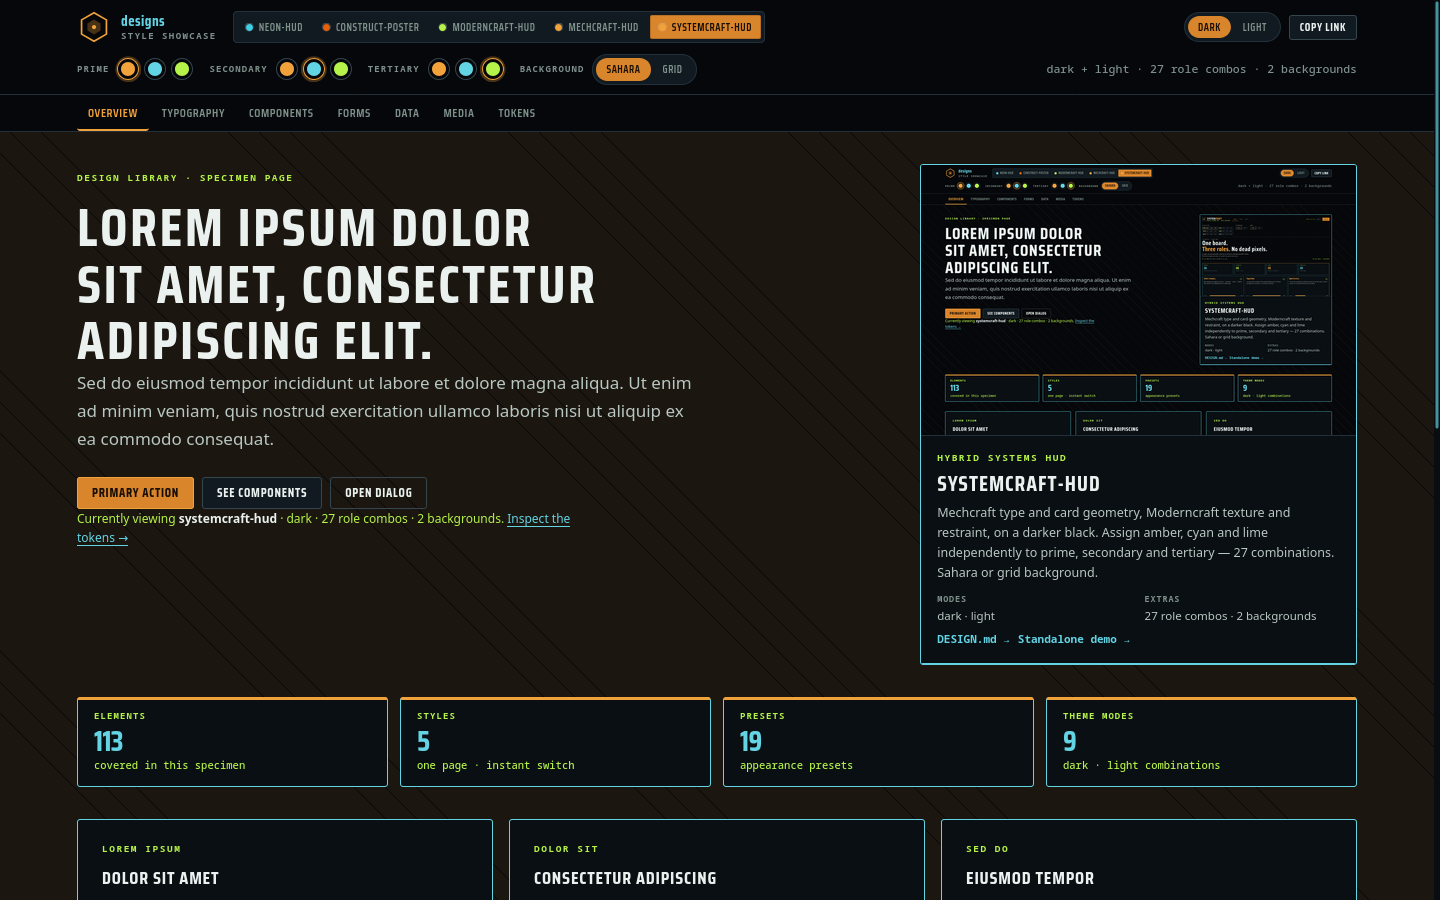
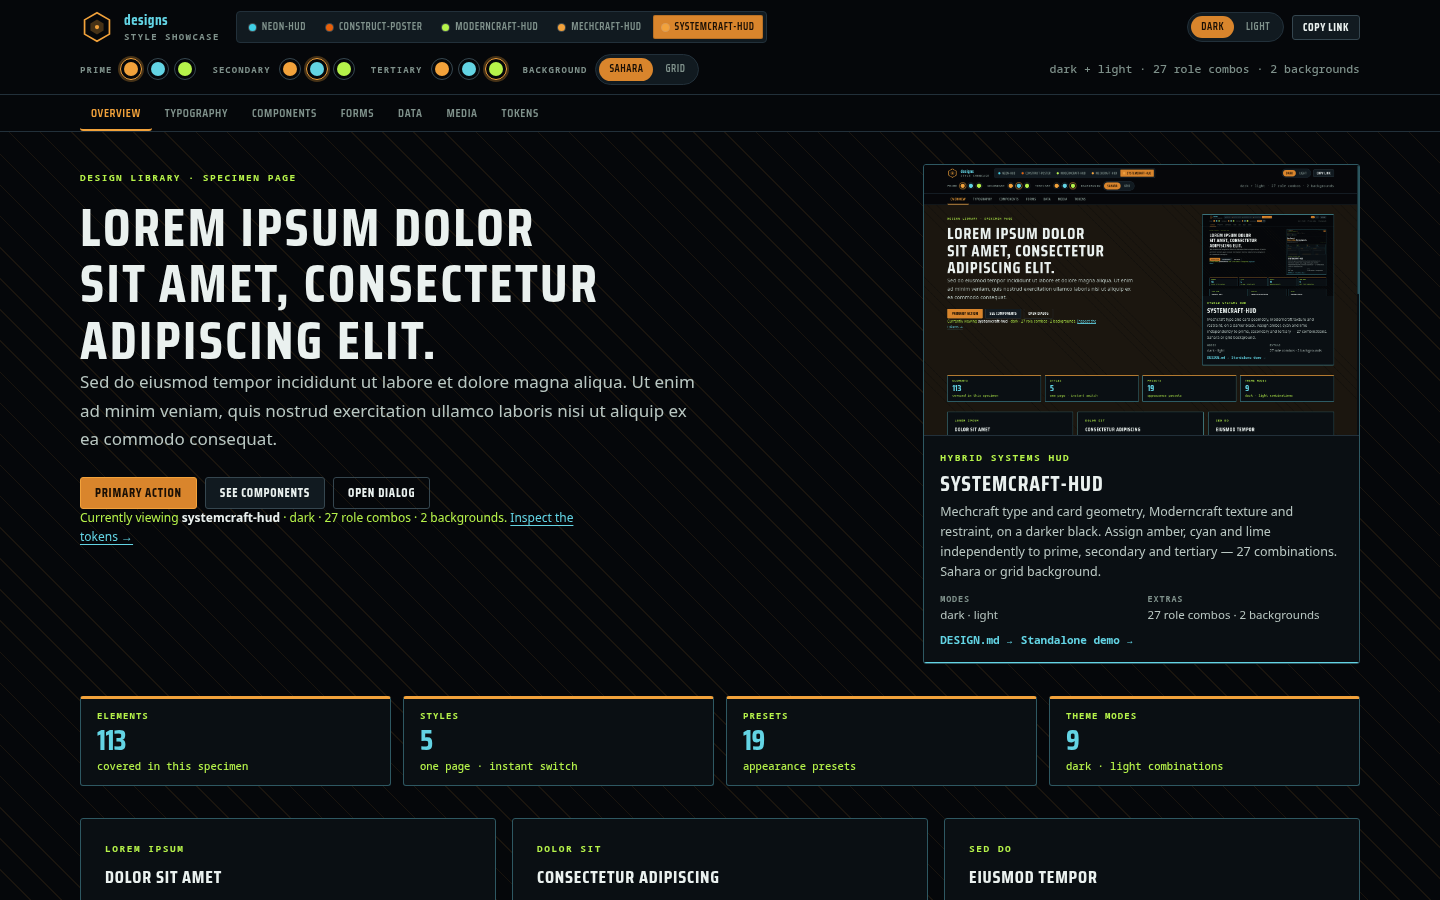
style(systemcraft): tint resting card borders
Match Moderncraft's quieter border weight with 30% secondary + card-line, while keeping the full secondary bottom rail and existing edge geometry. Refresh the canonical example preview.

diff --git a/styles/systemcraft-hud/theme.css b/styles/systemcraft-hud/theme.css
@@ -125,7 +125,7 @@
   --chrome-2: var(--acc-soft);
   --chrome-line: var(--acc-line);
   --chrome-glow: color-mix(in srgb, var(--acc) 22%, transparent);
-  --card-border: var(--sec);
+  --card-border: color-mix(in srgb, var(--sec) 30%, var(--card-line));
   --card-shadow-hot: 0 0 0 1px var(--acc),
     0 12px 26px color-mix(in srgb, var(--acc) 15%, transparent);
 }

diff --git a/styles/systemcraft-hud/DESIGN.md b/styles/systemcraft-hud/DESIGN.md
@@ -10,7 +10,7 @@ monochrome combinations such as amber/amber/amber. Dark and light. Sahara or gri
 - **Role assignment:** any of amber / cyan / lime in each role (27 combinations)
 - **Backgrounds:** `sahara` (default) · `grid`
 - **Type:** Saira Condensed (OFL, bundled) + system sans + system mono
-- **Shape:** 3 px cards and controls, 1 px secondary borders, inset highlight, 1 px secondary bottom rail
+- **Shape:** 3 px cards and controls, 1 px secondary-tinted borders, inset highlight, 1 px secondary bottom rail
 - **Texture:** 45° Sahara hatch, or a 47/48 px technical grid
 - **Motion:** 160 ms, border and hue transitions, reduced-motion guard
 - **Dependencies:** `color-mix()` only; no JS framework
@@ -111,9 +111,9 @@ of cards or compete with text. Switch with `data-bg="sahara|grid"`.
 
 ## Shape and surface
 
-- **Cards:** 3 px radius, 1 px **secondary** border, near-black screen, inset
+- **Cards:** 3 px radius, 1 px **secondary-tinted** border (30% secondary + card-line), near-black screen, inset
   top highlight, and a 1 px **secondary** rail across the bottom edge. Hover keeps
-  the secondary border and adds a 1 px secondary ring; the background does not
+  a full secondary border and adds a 1 px secondary ring; the background does not
   lighten and the card does not move.
 - **KPI / stat cards:** a 3 px prime top border instead of a bottom rail, so
   the metric cards remain distinct from normal cards.
@@ -155,7 +155,7 @@ Mechcraft keep their existing two-row header.
 - `sy-masthead` — combined brand / nav / action row with bottom delimiter.
 - `sy-brand` + `sy-mark` — identity block.
 - `sy-nav` — page tabs with a single active underline.
-- `sy-card`, `sy-panel` — dark screen, 3 px corners, secondary border, secondary bottom rail.
+- `sy-card`, `sy-panel` — dark screen, 3 px corners, secondary-tinted border, secondary bottom rail.
 - `sy-kpi` — 3 px prime top border, no bottom rail.
 - `sy-title` — accent section label with a 2 px left rule.
 - `sy-btn` — primary / secondary / ghost.
@@ -189,7 +189,7 @@ Mechcraft keep their existing two-row header.
 - use the role controls to re-key the whole surface, not patchwork
   colours;
 - keep the masthead as one row on desktop;
-- keep cards near-black / near-white with secondary borders and a secondary bottom rail;
+- keep cards near-black / near-white with secondary-tinted borders and a secondary bottom rail;
 - use the grid when the page is data-dense and Sahara when it is editorial.
 
 **Do not**
